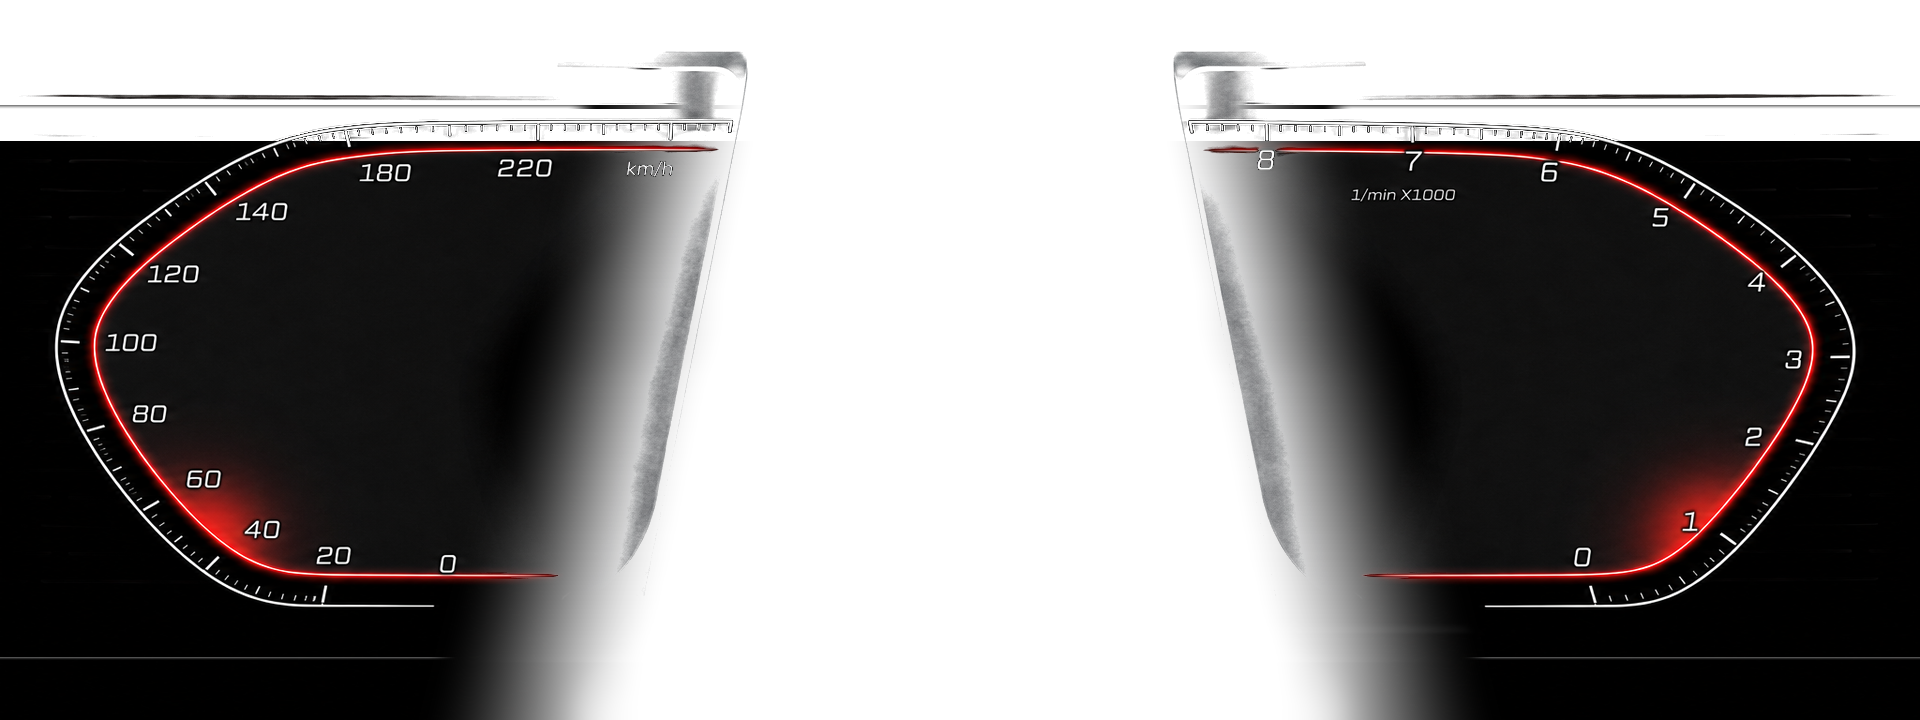
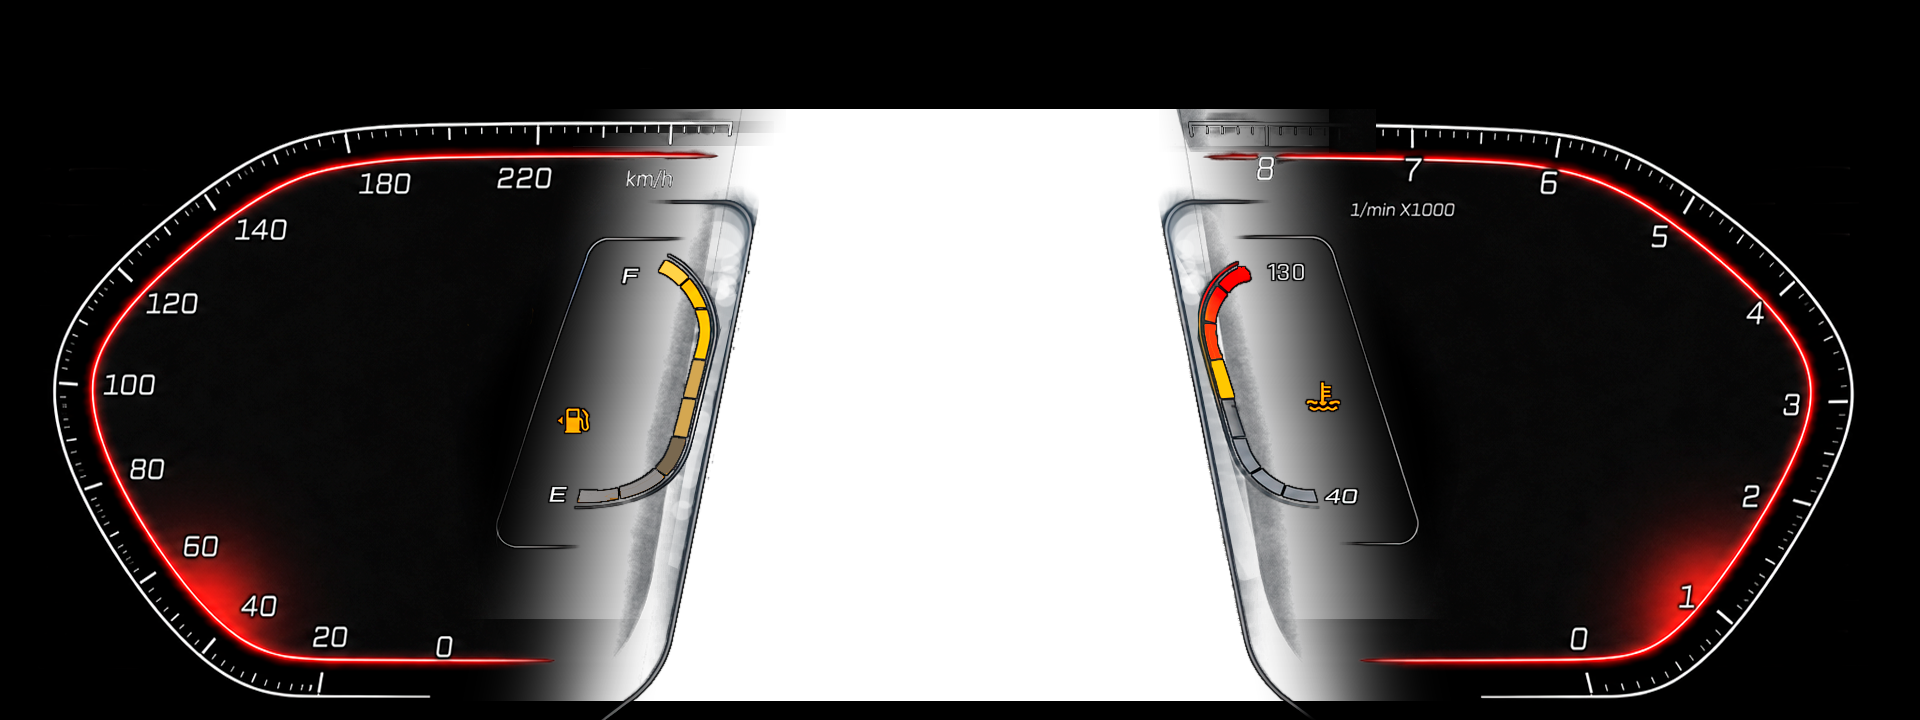
feat: use edited Sport dashboard artwork

diff --git a/app/src/main/java/net/adminrunet/h9cluster/skins/sport/SportClusterView.java b/app/src/main/java/net/adminrunet/h9cluster/skins/sport/SportClusterView.java
@@ -24,18 +24,15 @@ import java.text.SimpleDateFormat;
 import java.util.Date;
 import java.util.Locale;
 
-/** Independent renderer for the asymmetric red Sport skin. */
+/** Independent renderer for the user-supplied asymmetric red Sport skin. */
 public final class SportClusterView extends View implements ClusterRenderer {
     private static final float LOGICAL_WIDTH = 1920.0f;
     private static final float LOGICAL_HEIGHT = 720.0f;
     private static final float MAX_SPEED_KPH = 220.0f;
     private static final float MAX_RPM = 8000.0f;
     private static final float TANK_CAPACITY_LITERS = 80.0f;
-    // 32 logical pixels are approximately 5 mm on the 1920x720 cluster panel.
-    private static final float SPORT_GAUGE_OFFSET_Y = 32.0f;
-    private static final float SPORT_HALF_WIDTH = LOGICAL_WIDTH * 0.5f;
-    private static final RectF SPORT_TYRE_CAR_BOUNDS =
-            new RectF(1378.0f, 500.0f, 1418.0f, 590.0f);
+    private static final float SPORT_TYRE_CAR_X = 1538.0f;
+    private static final float SPORT_TYRE_CAR_Y = 285.0f;
     // Normalized positions and red-track coordinates for the asymmetric main scales.
     // The shape starts on the short lower inner arm, wraps around the outer edge,
     // and finishes on the long upper inner arm. The RPM scale mirrors these points.
@@ -53,12 +50,12 @@ public final class SportClusterView extends View implements ClusterRenderer {
             1.0f
     };
     private static final float[] SPORT_SCALE_X = {
-            558.0f, 320.0f, 225.0f, 165.0f, 115.0f,
-            95.0f, 120.0f, 205.0f, 345.0f, 525.0f
+            556.0f, 322.0f, 245.0f, 184.0f, 130.0f,
+            96.0f, 118.0f, 202.0f, 360.0f, 526.0f
     };
     private static final float[] SPORT_SCALE_Y = {
-            575.0f, 575.0f, 550.0f, 505.0f, 440.0f,
-            365.0f, 285.0f, 220.0f, 150.0f, 148.0f
+            660.0f, 660.0f, 631.0f, 577.0f, 498.0f,
+            405.0f, 313.0f, 231.0f, 156.0f, 154.0f
     };
     private static final long TRANSMISSION_TEMPERATURE_STALE_AFTER_MS = 15000L;
     private static final int COLOR_ATF_NORMAL = 0xFFF9F9F7;
@@ -82,7 +79,7 @@ public final class SportClusterView extends View implements ClusterRenderer {
             new TransmissionTemperatureAlert();
 
     private final Bitmap staticBackground;
-    private final Bitmap staticOverlay;
+    private final Bitmap tyreCar;
     private final Bitmap mainNeedle;
     private final Bitmap smallNeedle;
     private final Typeface dataTypeface;
@@ -107,7 +104,7 @@ public final class SportClusterView extends View implements ClusterRenderer {
         setBackgroundColor(Color.TRANSPARENT);
 
         staticBackground = loadBitmap(context, "dashboard/skins/sport/background.png");
-        staticOverlay = loadBitmap(context, "dashboard/skins/sport/overlay.png");
+        tyreCar = loadBitmap(context, "dashboard/skins/sport/car.png");
         mainNeedle = loadBitmap(context, "dashboard/skins/sport/needle_main.png");
         smallNeedle = loadBitmap(context, "dashboard/skins/sport/needle_small.png");
         dataTypeface = Typeface.createFromAsset(context.getAssets(), "fonts/Inter-Regular.ttf");
@@ -165,8 +162,16 @@ public final class SportClusterView extends View implements ClusterRenderer {
     private void drawStaticLayer(
             Canvas canvas,
             TransmissionTemperatureAlert.Level transmissionTemperatureLevel) {
-        drawShiftedSportBitmap(canvas, staticBackground, true, false);
-        drawShiftedSportBitmap(canvas, staticOverlay, false, true);
+        canvas.drawBitmap(
+                staticBackground,
+                (Rect) null,
+                logicalBounds,
+                bitmapPaint);
+        canvas.drawBitmap(
+                tyreCar,
+                SPORT_TYRE_CAR_X,
+                SPORT_TYRE_CAR_Y,
+                bitmapPaint);
 
         // The factory turn arrows own 578..696 and 1196..1320. No application
         // card, border or text is drawn in those protected zones.
@@ -185,86 +190,6 @@ public final class SportClusterView extends View implements ClusterRenderer {
 
         configureText(dataTypeface, 31.0f, Paint.Align.CENTER, 0xFFFFFFFF, true, 0.0f);
         canvas.drawText(cachedClockText, 486.0f, 55.0f, textPaint);
-    }
-
-    private void drawShiftedSportBitmap(
-            Canvas canvas,
-            Bitmap bitmap,
-            boolean removeScaleArtifacts,
-            boolean preserveTyreCar) {
-        drawShiftedSportHalf(
-                canvas,
-                bitmap,
-                0.0f,
-                SPORT_HALF_WIDTH,
-                removeScaleArtifacts,
-                false);
-        drawShiftedSportHalf(
-                canvas,
-                bitmap,
-                SPORT_HALF_WIDTH,
-                LOGICAL_WIDTH,
-                removeScaleArtifacts,
-                preserveTyreCar);
-
-        if (preserveTyreCar) {
-            int carSave = canvas.save();
-            canvas.clipRect(SPORT_TYRE_CAR_BOUNDS);
-            canvas.drawBitmap(bitmap, (Rect) null, logicalBounds, bitmapPaint);
-            canvas.restoreToCount(carSave);
-        }
-    }
-
-    private void drawShiftedSportHalf(
-            Canvas canvas,
-            Bitmap bitmap,
-            float left,
-            float right,
-            boolean removeScaleArtifacts,
-            boolean removeShiftedTyreCar) {
-        int save = canvas.save();
-        canvas.clipRect(left, 0.0f, right, LOGICAL_HEIGHT);
-
-        if (removeScaleArtifacts) {
-            // The source artwork contains decorative horizontal remnants which
-            // become especially visible over navigation. Exclude only those
-            // source regions while retaining the shaped Sport scale.
-            if (left < SPORT_HALF_WIDTH) {
-                canvas.clipOutRect(
-                        0.0f,
-                        84.0f + SPORT_GAUGE_OFFSET_Y,
-                        568.0f,
-                        109.0f + SPORT_GAUGE_OFFSET_Y);
-                canvas.clipOutRect(
-                        202.0f,
-                        594.0f + SPORT_GAUGE_OFFSET_Y,
-                        444.0f,
-                        617.0f + SPORT_GAUGE_OFFSET_Y);
-            } else {
-                canvas.clipOutRect(
-                        1352.0f,
-                        84.0f + SPORT_GAUGE_OFFSET_Y,
-                        LOGICAL_WIDTH,
-                        109.0f + SPORT_GAUGE_OFFSET_Y);
-                canvas.clipOutRect(
-                        1476.0f,
-                        594.0f + SPORT_GAUGE_OFFSET_Y,
-                        1728.0f,
-                        617.0f + SPORT_GAUGE_OFFSET_Y);
-            }
-        }
-
-        if (removeShiftedTyreCar) {
-            canvas.clipOutRect(
-                    SPORT_TYRE_CAR_BOUNDS.left,
-                    SPORT_TYRE_CAR_BOUNDS.top + SPORT_GAUGE_OFFSET_Y,
-                    SPORT_TYRE_CAR_BOUNDS.right,
-                    SPORT_TYRE_CAR_BOUNDS.bottom + SPORT_GAUGE_OFFSET_Y);
-        }
-
-        canvas.translate(0.0f, SPORT_GAUGE_OFFSET_Y);
-        canvas.drawBitmap(bitmap, (Rect) null, logicalBounds, bitmapPaint);
-        canvas.restoreToCount(save);
     }
 
     private void drawNeedleLayer(Canvas canvas) {
@@ -294,7 +219,7 @@ public final class SportClusterView extends View implements ClusterRenderer {
                 canvas,
                 smallNeedle,
                 620.0f,
-                324.0f + SPORT_GAUGE_OFFSET_Y,
+                378.0f,
                 90.0f,
                 120.0f,
                 120.0f - fuelFraction * 196.0f,
@@ -305,7 +230,7 @@ public final class SportClusterView extends View implements ClusterRenderer {
                 canvas,
                 smallNeedle,
                 1300.0f,
-                324.0f + SPORT_GAUGE_OFFSET_Y,
+                378.0f,
                 90.0f,
                 120.0f,
                 64.0f + coolantFraction * 173.0f,
@@ -377,8 +302,6 @@ public final class SportClusterView extends View implements ClusterRenderer {
             x = LOGICAL_WIDTH - x;
             tangentX = -tangentX;
         }
-        y += SPORT_GAUGE_OFFSET_Y;
-
         float inwardX = mirrored ? tangentY : -tangentY;
         float inwardY = mirrored ? -tangentX : tangentX;
         float inwardLength = (float) Math.hypot(inwardX, inwardY);
@@ -512,22 +435,22 @@ public final class SportClusterView extends View implements ClusterRenderer {
         configureText(dataTypeface, 20.0f, Paint.Align.CENTER, 0xFFC8CDD1, false, 0.0f);
         canvas.drawText("km/h", 349.0f, 496.0f, textPaint);
 
-        // Keep the fuel values inside the grey insert and clear of the full needle
-        // sweep. Range and fuel fraction are nudged about 1 mm farther right.
+        // Keep the fuel values inside the user-supplied grey insert and clear
+        // of the complete needle sweep.
         configureText(gaugeTypeface, 29.0f, Paint.Align.CENTER, 0xFFE7E8E8, true, -0.08f);
         drawFittedText(
                 canvas,
                 state.rangeKm + " km",
                 602.0f,
-                279.0f + SPORT_GAUGE_OFFSET_Y,
-                72.0f,
+                347.0f,
+                78.0f,
                 29.0f,
                 22.0f);
         drawFittedText(
                 canvas,
                 Math.round(displayedFuel) + " L",
                 596.0f,
-                317.0f + SPORT_GAUGE_OFFSET_Y,
+                385.0f,
                 72.0f,
                 29.0f,
                 22.0f);
@@ -536,20 +459,19 @@ public final class SportClusterView extends View implements ClusterRenderer {
                 canvas,
                 String.format(Locale.US, "%.1f", displayedFuel / TANK_CAPACITY_LITERS),
                 564.0f,
-                389.0f + SPORT_GAUGE_OFFSET_Y,
-                34.0f,
+                458.0f,
+                40.0f,
                 27.0f,
                 20.0f);
 
-        // Shift the coolant value about 5 mm left at 160 dpi. Its narrower fitted
-        // box still clears the complete 40-to-130 needle sweep.
+        // The coolant value stays in the free area inside the right insert.
         configureText(gaugeTypeface, 31.0f, Paint.Align.CENTER, 0xFFF4F4F2, true, -0.08f);
         drawFittedText(
                 canvas,
                 Integer.toString(Math.round(displayedCoolant)),
                 1300.0f,
-                289.0f + SPORT_GAUGE_OFFSET_Y,
-                40.0f,
+                352.0f,
+                46.0f,
                 31.0f,
                 23.0f);
 
@@ -560,7 +482,7 @@ public final class SportClusterView extends View implements ClusterRenderer {
                 canvas,
                 String.format(Locale.US, "ODO  %.0f km", state.odometerKm),
                 400.0f,
-                260.0f,
+                272.0f,
                 150.0f,
                 21.0f,
                 18.0f);
@@ -568,7 +490,7 @@ public final class SportClusterView extends View implements ClusterRenderer {
                 canvas,
                 String.format(Locale.US, "Day  %.1f km", state.dayKm),
                 400.0f,
-                290.0f,
+                302.0f,
                 150.0f,
                 21.0f,
                 18.0f);
@@ -576,42 +498,42 @@ public final class SportClusterView extends View implements ClusterRenderer {
                 canvas,
                 String.format(Locale.US, "Trip  %.1f km", state.tripKm),
                 400.0f,
-                320.0f,
+                332.0f,
                 150.0f,
                 21.0f,
                 18.0f);
 
-        // Keep both rows aligned to the front and rear of the fixed car graphic.
+        // Keep all four pressures around the car position from example.png.
         configureText(gaugeTypeface, 24.0f, Paint.Align.CENTER, 0xFFF4F4F2, false, -0.06f);
         drawFittedText(
                 canvas,
                 formatPressure(state.tyreFrontLeftBar),
-                1335.0f,
-                529.0f,
+                1490.0f,
+                293.0f,
                 74.0f,
                 24.0f,
                 19.0f);
         drawFittedText(
                 canvas,
                 formatPressure(state.tyreFrontRightBar),
-                1459.0f,
-                529.0f,
+                1617.0f,
+                293.0f,
                 74.0f,
                 24.0f,
                 19.0f);
         drawFittedText(
                 canvas,
                 formatPressure(state.tyreRearLeftBar),
-                1335.0f,
-                559.0f,
+                1490.0f,
+                346.0f,
                 74.0f,
                 24.0f,
                 19.0f);
         drawFittedText(
                 canvas,
                 formatPressure(state.tyreRearRightBar),
-                1459.0f,
-                559.0f,
+                1617.0f,
+                346.0f,
                 74.0f,
                 24.0f,
                 19.0f);
